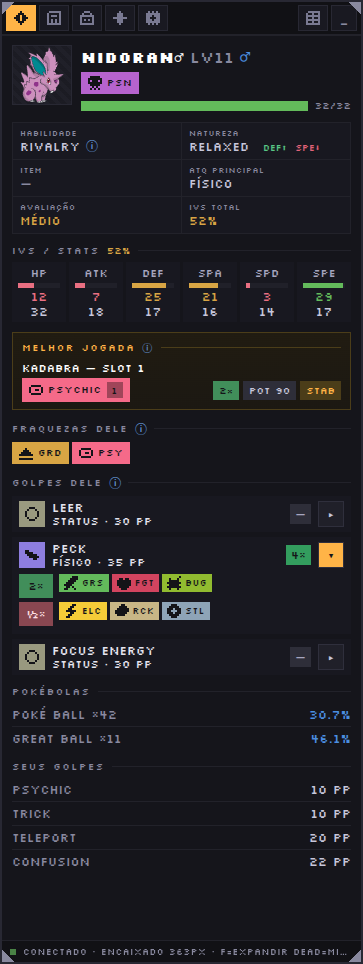
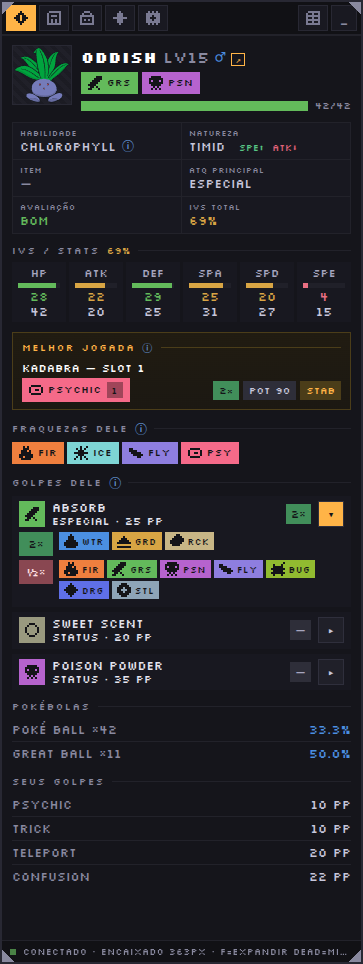
feat: atalhos padrão numéricos e print do Encontro com o botão do Smogon
Encontro/Calculadora/Meus Pokémon/Configurações/Tabela passam a ser
1/2/3/4/5; expandir continua em F. Quem já customizou não é afetado: o
merge de uiPreferences preserva o que estiver salvo.

Minimizar segue em ESC. O pedido era Ctrl, mas modificador sozinho não
forma atalho no sistema atual — comboFromEvent devolve null para eles,
por isso a tentativa acabou gravando a tecla morta ("DEAD").

O print da aba Encontro foi refeito já com o botão ↗ ao lado do nome do
oponente, e o clique foi verificado ao vivo: abriu a página do Oddish no
Smogon.

diff --git a/content.js b/content.js
@@ -613,6 +613,15 @@
             #${ID}.full-side .ph-frame { position: static; height: 100%; }
             #${ID}.full-side #pokemon-chart-frame { display: block; flex: 1 1 auto; min-width: 0; order: 1; }
             #${ID}.full-side .ph-frame.side-active { display: block; flex: 0 0 var(--ph-side-width, 360px); border-right: 2px solid #23232f; order: 0; }
+            /* zoom só nos filhos, nunca no container: ele é position: fixed com
+               top/right/width/height em px, e zoom escalaria esses offsets junto,
+               quebrando arrastar/redimensionar/maximizar. A .ph-body fica de fora
+               porque contém os iframes, que já se auto-escalam por dentro
+               (components/panel-zoom.js) — zoom aqui daria zoom ao quadrado. */
+            #${ID} .ph-header,
+            #${ID} .ph-status,
+            #${ID} .ph-settings { zoom: var(--ph-zoom, 1); }
+            #${ID} .ph-step:disabled { opacity: .35; cursor: default; }
             #${ID} .ph-status {
                 flex: 0 0 auto; height: 22px;
                 display: flex; align-items: center; gap: 7px; padding: 0 8px;

diff --git a/data/extension-storage.js b/data/extension-storage.js
@@ -49,11 +49,11 @@ var PokemonHelperStorage = globalThis.PokemonHelperStorage || (() => {
         panelZoom: 1,                 // fator de zoom do conteúdo do painel (ver components/panel-zoom.js)
         // ação → combinação normalizada (ver PokemonHelperShortcutUtils)
         shortcuts: Object.freeze({
-            battle: 'e',
-            calc: 'c',
-            myPokemons: 'm',
-            settings: ',',
-            typeChart: 't',
+            battle: '1',
+            calc: '2',
+            myPokemons: '3',
+            settings: '4',
+            typeChart: '5',
             toggleFull: 'f',
             minimize: 'escape'
         }),

diff --git a/README.md b/README.md
@@ -382,11 +382,11 @@ sobre o painel do overlay (nunca disparam na página do jogo).
 | Ação | Atalho padrão | Onde funciona |
 |---|---|---|
 | Abrir/fechar o overlay inteiro | `Ctrl+Shift+Y` | Atalho do navegador (`chrome://extensions/shortcuts`) |
-| Encontro | `E` | Com foco no painel |
-| Calculadora | `C` | Com foco no painel |
-| Meus Pokémon | `M` | Com foco no painel |
-| Configurações | `,` (vírgula) | Com foco no painel |
-| Tabela de tipos | `T` | Com foco no painel |
+| Encontro | `1` | Com foco no painel |
+| Calculadora | `2` | Com foco no painel |
+| Meus Pokémon | `3` | Com foco no painel |
+| Configurações | `4` | Com foco no painel |
+| Tabela de tipos | `5` | Com foco no painel |
 | Expandir/recolher (modo full) | `F` | Com foco no painel |
 | Minimizar/voltar | `Esc` | Com foco no painel |
 
